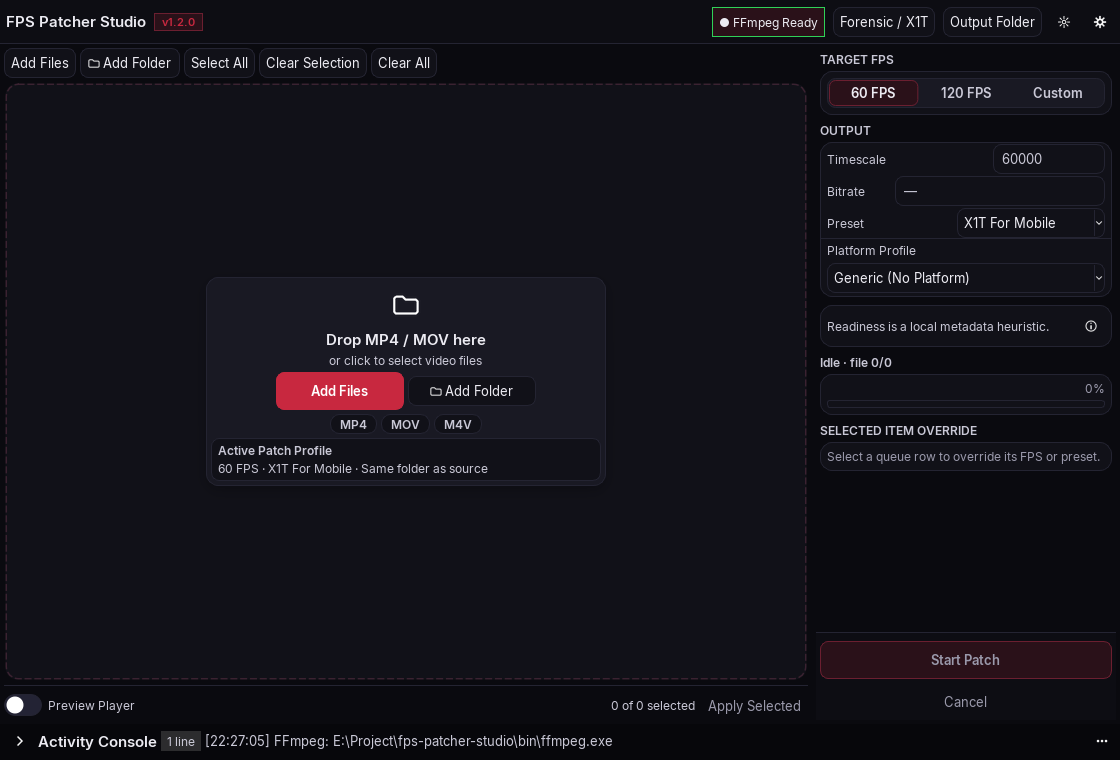
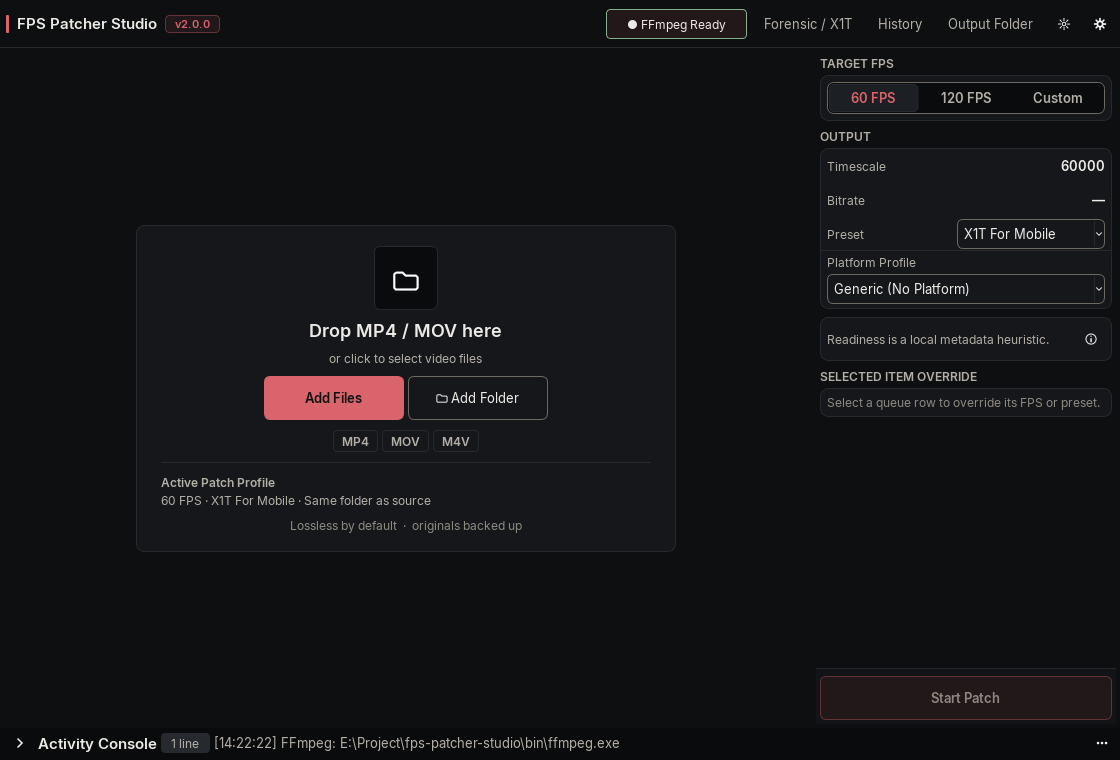
feat(fps): update site for FPS Patcher Studio v2.0.0
Refresh screenshots and copy for the Crimson Graphite redesign, four-tab Settings, system tray, Windows startup, and the v2.0.0 download hashes.

diff --git a/src/lib/content.ts b/src/lib/content.ts
@@ -3,26 +3,26 @@ import type { Lang } from "./theme";
 export const RELEASES = {
   fps: {
     name: "FPS Patcher Studio",
-    version: "1.2.0",
+    version: "2.0.0",
     repo: "https://github.com/x1Swimzft/FPS-Patcher-Studio",
     releasePage:
-      "https://github.com/x1Swimzft/FPS-Patcher-Studio/releases/tag/v1.2.0",
+      "https://github.com/x1Swimzft/FPS-Patcher-Studio/releases/tag/v2.0.0",
     installer: {
-      file: "FPSPatcherStudio-v1.2.0-Setup.exe",
-      url: "https://github.com/x1Swimzft/FPS-Patcher-Studio/releases/download/v1.2.0/FPSPatcherStudio-v1.2.0-Setup.exe",
+      file: "FPSPatcherStudio-v2.0.0-Setup.exe",
+      url: "https://github.com/x1Swimzft/FPS-Patcher-Studio/releases/download/v2.0.0/FPSPatcherStudio-v2.0.0-Setup.exe",
       size: "84 MB",
-      bytes: 88_094_148,
[1 lines of base64/hex data omitted]
+      bytes: 88_394_638,
[1 lines of base64/hex data omitted]
     },
     portable: {
-      file: "FPSPatcherStudio-v1.2.0-win64.zip",
-      url: "https://github.com/x1Swimzft/FPS-Patcher-Studio/releases/download/v1.2.0/FPSPatcherStudio-v1.2.0-win64.zip",
-      size: "117 MB",
-      bytes: 122_931_332,
[1 lines of base64/hex data omitted]
+      file: "FPSPatcherStudio-v2.0.0-win64.zip",
+      url: "https://github.com/x1Swimzft/FPS-Patcher-Studio/releases/download/v2.0.0/FPSPatcherStudio-v2.0.0-win64.zip",
+      size: "117.5 MB",
+      bytes: 123_245_290,
[1 lines of base64/hex data omitted]
     },
     checksums:
-      "https://github.com/x1Swimzft/FPS-Patcher-Studio/releases/download/v1.2.0/FPSPatcherStudio-v1.2.0.sha256",
+      "https://github.com/x1Swimzft/FPS-Patcher-Studio/releases/download/v2.0.0/FPSPatcherStudio-v2.0.0.sha256",
   },
   ud: {
     name: "Universal Downloader",
@@ -60,7 +60,7 @@ const en = {
     cta: "Download",
   },
   hero: {
-    eyebrow: "FPS v1.2.0 · Downloader v1.0.0 · Windows 10/11",
+    eyebrow: "FPS v2.0.0 · Downloader v1.0.0 · Windows 10/11",
     title: "X1T",
     subtitle:
       "Two desktop tools for people who care about every frame and every file. Patch container timing without re-encoding. Pull media from 15 sites into one local queue.",
@@ -113,7 +113,7 @@ const en = {
     },
   ],
   fps: {
-    badge: "FPS Patcher Studio · v1.2.0",
+    badge: "FPS Patcher Studio · v2.0.0",
     title: "Fix the timing, not the pixels.",
     lede: "FPS Patcher Studio rewrites MP4 and MOV container headers at the atom level. The video and audio samples stay untouched, so the file is re-timed without a second encode.",
     featuresTitle: "What it does",
@@ -133,6 +133,14 @@ const en = {
       {
         title: "Batch queue",
         desc: "Drop multiple clips, override timescale or preset per item, and patch only what you select.",
+      },
+      {
+        title: "System tray and startup",
+        desc: "Close the window and keep patching; optionally launch with Windows and start in the tray.",
+      },
+      {
+        title: "Crimson Graphite UI",
+        desc: "Four Settings tabs, a hero drop state, and a light mode built alongside dark.",
       },
       {
         title: "Bitrate preview and target",
@@ -232,7 +240,7 @@ const en = {
     shotsTitle: "Inside the app",
     shots: [
       { id: "queue", label: "Batch queue", caption: "Queue with per-item overrides and verification state." },
-      { id: "settings", label: "Settings", caption: "X1T presets, watch folder, color guard, and shell integration." },
+      { id: "settings", label: "Settings", caption: "Four-tab Settings with Advanced sections for naming, visual, and lossy options." },
       { id: "main", label: "Empty state", caption: "Drop MP4 or MOV files, or add a folder." },
     ],
     cta: "Download FPS Patcher",
@@ -382,7 +390,7 @@ const th: typeof en = {
     cta: "ดาวน์โหลด",
   },
   hero: {
-    eyebrow: "FPS v1.2.0 · Downloader v1.0.0 · Windows 10/11",
+    eyebrow: "FPS v2.0.0 · Downloader v1.0.0 · Windows 10/11",
     title: "X1T",
     subtitle:
       "สองเครื่องมือเดสก์ท็อปสำหรับคนที่ใส่ใจทุกเฟรมและทุกไฟล์ แพตช์ไทม์มิ่งคอนเทนเนอร์โดยไม่ต้องเรนเดอร์ใหม่ และดาวน์โหลดสื่อจาก 15 แพลตฟอร์มเข้าคิวเดียวบนเครื่องคุณ",
@@ -435,7 +443,7 @@ const th: typeof en = {
     },
   ],
   fps: {
-    badge: "FPS Patcher Studio · v1.2.0",
+    badge: "FPS Patcher Studio · v2.0.0",
     title: "แก้ไทม์มิ่ง ไม่แตะพิกเซล",
     lede: "FPS Patcher Studio เขียนเฮดเดอร์คอนเทนเนอร์ MP4 และ MOV ใหม่ที่ระดับ atom ข้อมูลวิดีโอและเสียงยังคงเดิม จึงปรับไทม์มิ่งได้โดยไม่ต้องเข้ารหัสซ้ำ",
     featuresTitle: "ความสามารถหลัก",
@@ -455,6 +463,14 @@ const th: typeof en = {
       {
         title: "คิวแบบแบตช์",
         desc: "ลากหลายคลิป ตั้ง timescale หรือ preset รายไฟล์ และเลือกแพตช์เฉพาะรายการที่ต้องการ",
+      },
+      {
+        title: "System Tray และ Startup",
+        desc: "ปิดหน้าต่างแล้วแพตช์ต่อ; เปิดพร้อม Windows และเริ่มแบบซ่อนใน tray ได้",
+      },
+      {
+        title: "ดีไซน์ Crimson Graphite",
+        desc: "Settings 4 แท็บ, หน้า drop แบบ hero และ light mode ที่ทำมาคู่กับ dark",
       },
       {
         title: "ดูบิตเรตและตั้งเป้า",
@@ -554,7 +570,7 @@ const th: typeof en = {
     shotsTitle: "ภายในแอป",
     shots: [
       { id: "queue", label: "คิวแบตช์", caption: "คิวพร้อมตัวเลือกต่อไฟล์และสถานะการตรวจสอบ" },
-      { id: "settings", label: "ตั้งค่า", caption: "พรีเซ็ต X1T, watch folder, color guard และ shell integration" },
+      { id: "settings", label: "ตั้งค่า", caption: "Settings 4 แท็บ พร้อม Advanced สำหรับการตั้งชื่อ หน้าตา และตัวเลือก lossy" },
       { id: "main", label: "หน้าแรก", caption: "ลากไฟล์ MP4 หรือ MOV หรือเพิ่มโฟลเดอร์" },
     ],
     cta: "ดาวน์โหลด FPS Patcher",

diff --git a/src/app/layout.tsx b/src/app/layout.tsx
@@ -56,7 +56,7 @@ export default function RootLayout({
                   name: "FPS Patcher Studio",
                   applicationCategory: "MultimediaApplication",
                   operatingSystem: "Windows 10, Windows 11",
-                  softwareVersion: "1.2.0",
+                  softwareVersion: "2.0.0",
                   offers: {
                     "@type": "Offer",
                     price: "0",
